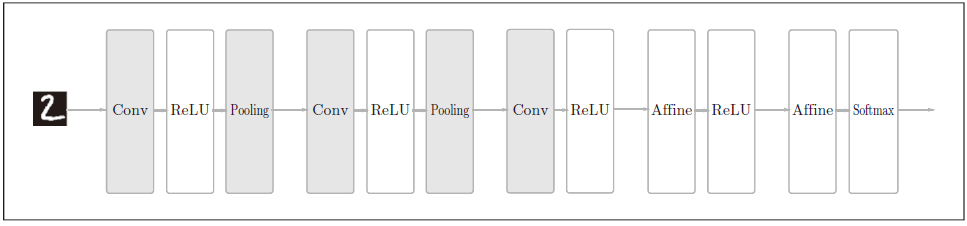
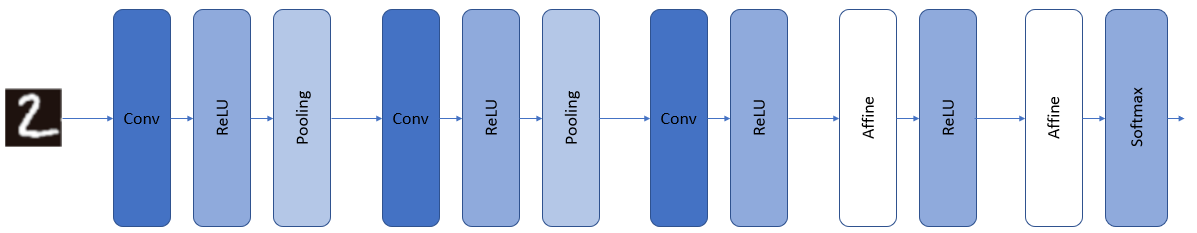
修改图片

diff --git a/data/chap03.tex b/data/chap03.tex
@@ -22,14 +22,14 @@
 \begin{figure}
     \centering
     \includegraphics[width=0.9\linewidth]{chapter3_2.png}
-    \caption{卷积神经网络结构示意图\cite{luyujie_216}}
+    \caption{卷积神经网络结构示意图}
     \label{fig:chapter3_2}
 \end{figure}
 
-如图\ref{fig:chapter3_2}所示，这是一个卷积神经网络的例子。卷积神经网络的单个层连接的顺序是卷积层、激活函数层和池化层，其中池化层有时可以省略。
-然后，最终的输出层中则使用了全连接层和Softmax的组合。这样的搭配一般都是卷积神经网络中较为常见的搭配结构。
+如图\ref{fig:chapter3_2}所示，这是一个卷积神经网络的例子。卷积神经网络的单个层连接的顺序是卷积层、激活函数层（如图中的ReLU层）和池化层，其中池化层有时可以省略。
+然后，最终的输出层中则使用了全连接层和Softmax的组合。图中的Affine层代表全连接层。这样的搭配一般都是卷积神经网络中较为常见的搭配结构。
 
-\subsection{卷积神经网络原理}
+\subsection{卷积神经网络原理} 
 在全连接的神经网络中，每一层都是通过全连接层组织起来的。在全连接的层次中，各个神经元都是连接在一起的，其输出数量是可以任意指定的，没有数量上的限制。
 
 这样的结构没有将数据的形状特征充分利用起来。用图片来举例，神经网络输入图片时，图片数据的格式一般是长、宽和高。长和宽代表图片以像素为单位的长度和宽度，高代表图片采样通道的宽度。
@@ -43,7 +43,7 @@
 图中展示了一次二维卷积运算的运算过程。输入数据的尺寸是4乘4，卷积核的尺寸是3乘3，在没有边界填充并且步长为1的情况下，最终输出结果的尺寸是2乘2。
 \begin{figure}
     \centering
-    \includegraphics[width=0.9\linewidth]{chapter3_4.png}
+    \includegraphics[width=0.6\linewidth]{chapter3_4.png}
     \caption{简单的卷积运算}
     \label{fig:chapter3_4}
 \end{figure}
@@ -52,7 +52,7 @@
 运算后将结果保存到相应的位置。在图\ref{fig:chapter3_5}中第二、三、四行将上述过程在每个位置计算一遍，就完成了输入数据在一个卷积核上的特征输出。
 \begin{figure}
     \centering
-    \includegraphics[width=0.9\linewidth]{chapter3_5.png}
+    \includegraphics[width=0.5\linewidth]{chapter3_5.png}
     \caption{卷积运算过程示意图}
     \label{fig:chapter3_5}
 \end{figure}
@@ -62,7 +62,7 @@
 对于输入数据，滤波器（维度是3乘3）与输入数据（维度是4乘4）进行卷积运算后便得到了初步的输出结果（维度是2乘2）。之后再将这个结果的每一个位置加上该卷积核对应的偏置数值，得到了最终结果（维度是2乘2）。
 \begin{figure}
     \centering
-    \includegraphics[width=0.9\linewidth]{chapter3_6.png}
+    \includegraphics[width=0.7\linewidth]{chapter3_6.png}
     \caption{卷积运算后的偏置}
     \label{fig:chapter3_6}
 \end{figure}
@@ -70,7 +70,7 @@
 三维卷积运算与二维卷积运算不同的是，卷积核的维度从2维提高到了3维，除了有长和宽的信息，还有通道数的维度。如图\ref{fig:chapter3_7}所示，以3通道为例，其运算过程与二维相似，先将对应位置的数字相乘，然后将相乘之后的结果相加，便得到了输出结果。
 \begin{figure}
     \centering
-    \includegraphics[width=0.9\linewidth]{chapter3_7.png}
+    \includegraphics[width=0.6\linewidth]{chapter3_7.png}
     \caption{3通道的卷积运算}
     \label{fig:chapter3_7}
 \end{figure}
@@ -80,7 +80,7 @@
 池化操作的输入是图中灰色区域内的数字，输出是一个数字。中间的运算过程一般有两个算法，一种是取所有数字中最大的数字，这种算法被称为最大池化操作；另外一种算法是取区域内所有数字的平均数，这种算法被称为平均池化操作。
 \begin{figure}
     \centering
-    \includegraphics[width=0.9\linewidth]{chapter3_8.png}
+    \includegraphics[width=0.7\linewidth]{chapter3_8.png}
     \caption{池化操作流程图}
     \label{fig:chapter3_8}
 \end{figure}
@@ -88,7 +88,7 @@
 池化层与卷积层不一样的是，池化层没有训练参数，它的输入参数都是运算之前系统已经规定好的超参数。池化层就是一个固定算法的函数。它另外的一个特点是，池化操作后通道数是不变的，各通道是相互独立的，如图\ref{fig:chapter3_9}所示。
 \begin{figure}
     \centering
-    \includegraphics[width=0.7\linewidth]{chapter3_9.png}
+    \includegraphics[width=0.5\linewidth]{chapter3_9.png}
     \caption{三维数据的池化操作}
     \label{fig:chapter3_9}
 \end{figure}
@@ -116,13 +116,13 @@
 LeCun在这篇文献\cite{726791}中提到，卷积神经网络的设计思想参考了生物视觉信息处理中简单细胞和复杂细胞\cite{hubel1962}的概念。
 在文献\cite{2019arXiv190906161K}中，作者提到了卷积神经网络是最接近还原人类视觉信息加工原理的人工神经网络。在卷积神经网络中，层数较低的卷积核提取的是较为初级的基本特征，层数较高的卷积核提取的特征是比较抽象的特征。
 随着输入数据在多层卷积层中逐层传递，一些特征信息逐渐被卷积核提取，提取的信息也逐步抽象。本文将卷积神经网络这种区别于其他人工神经网络的特性称为卷积神经网络的分层抽象特性。
-如图\ref{fig:chapter3_13}所示， 图中上半部分展示了一个训练完成的8层卷积神经网络结构，下半部分则是参数渲染后的效果。
+如图\ref{fig:chapter3_13}所示， 图中上半部分展示了一个训练完成的AlexNet\cite{alexnet2017}的8层卷积神经网络结构，下半部分则是参数可视化\cite{Zeiler2014,Mahendran_2015_CVPR}后的效果。
 我们可以看到第一个卷积层学到的信息是一些基础的信息，例如边和角；第三层学到了由边和角构成的类似材质的图案；第五层则学到了由图案构成的物体的某个部分；最后，全连接层学到的是整个物体本身。
 由此可以看出在卷积神经网络模型中，越靠后面的层次提取的特征越抽象(这里我们称离输入端较近的层次为前面层次，离输出端较近的层次为后面层次)，这种现象就解释了我们所说的分层抽象特性。
 \begin{figure}
     \centering
     \includegraphics[width=0.9\linewidth]{chapter3_13.png}
-    \caption{卷积神经网络的分层抽象特性示意图\cite{luyujie2018}}
+    \caption{卷积神经网络的分层抽象特性示意图}
     \label{fig:chapter3_13}
 \end{figure}
 
